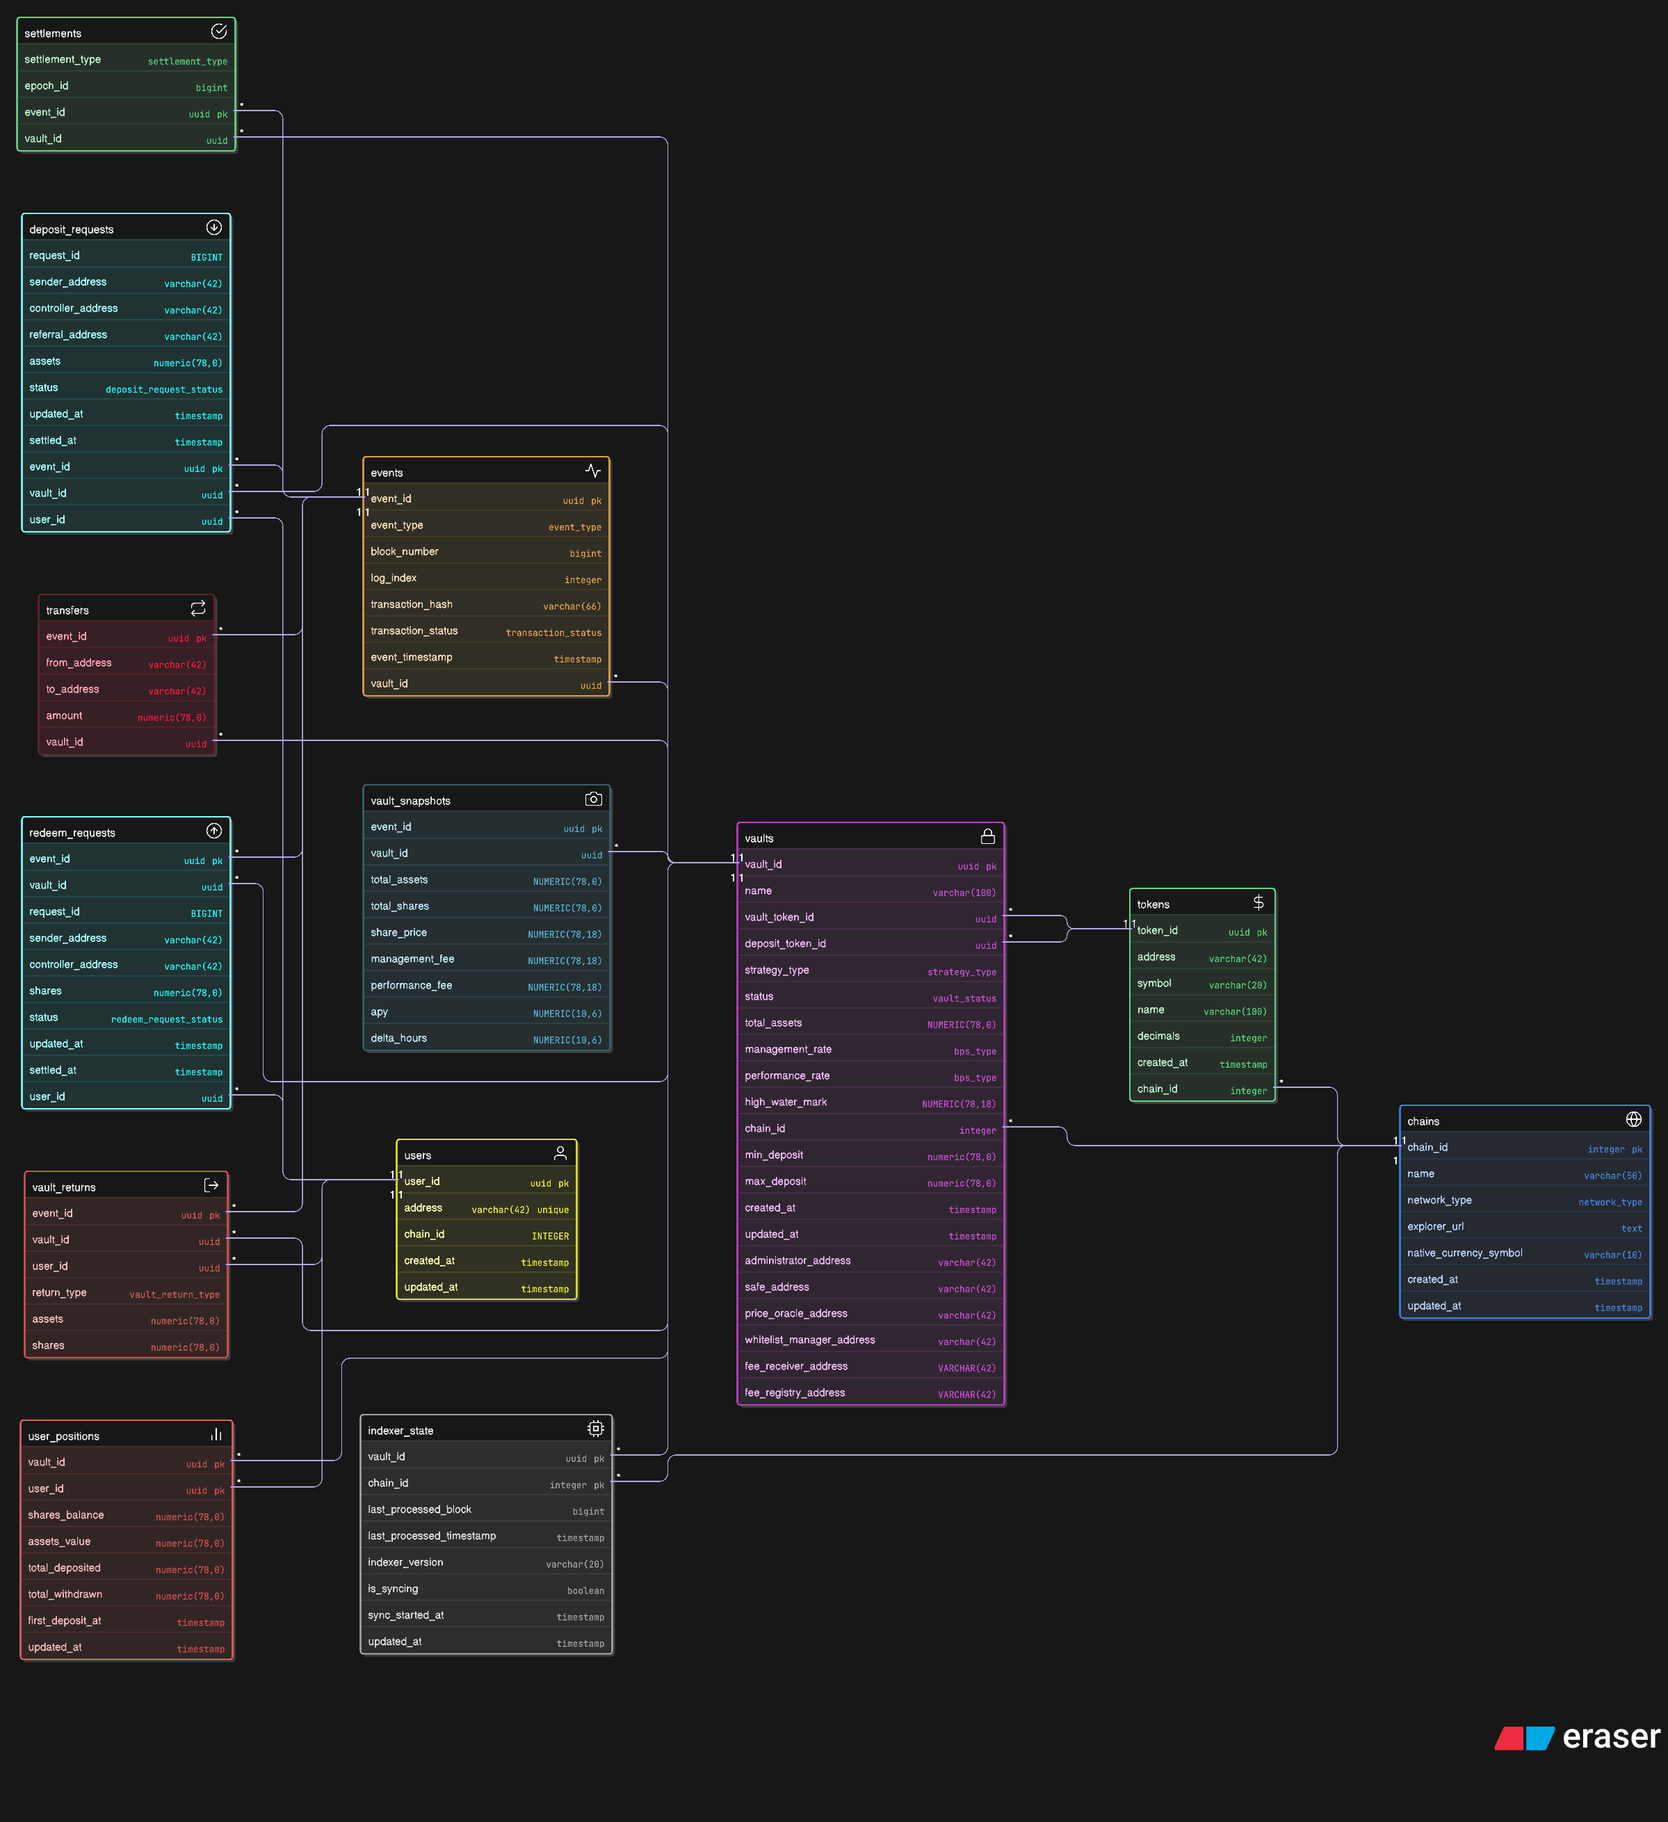
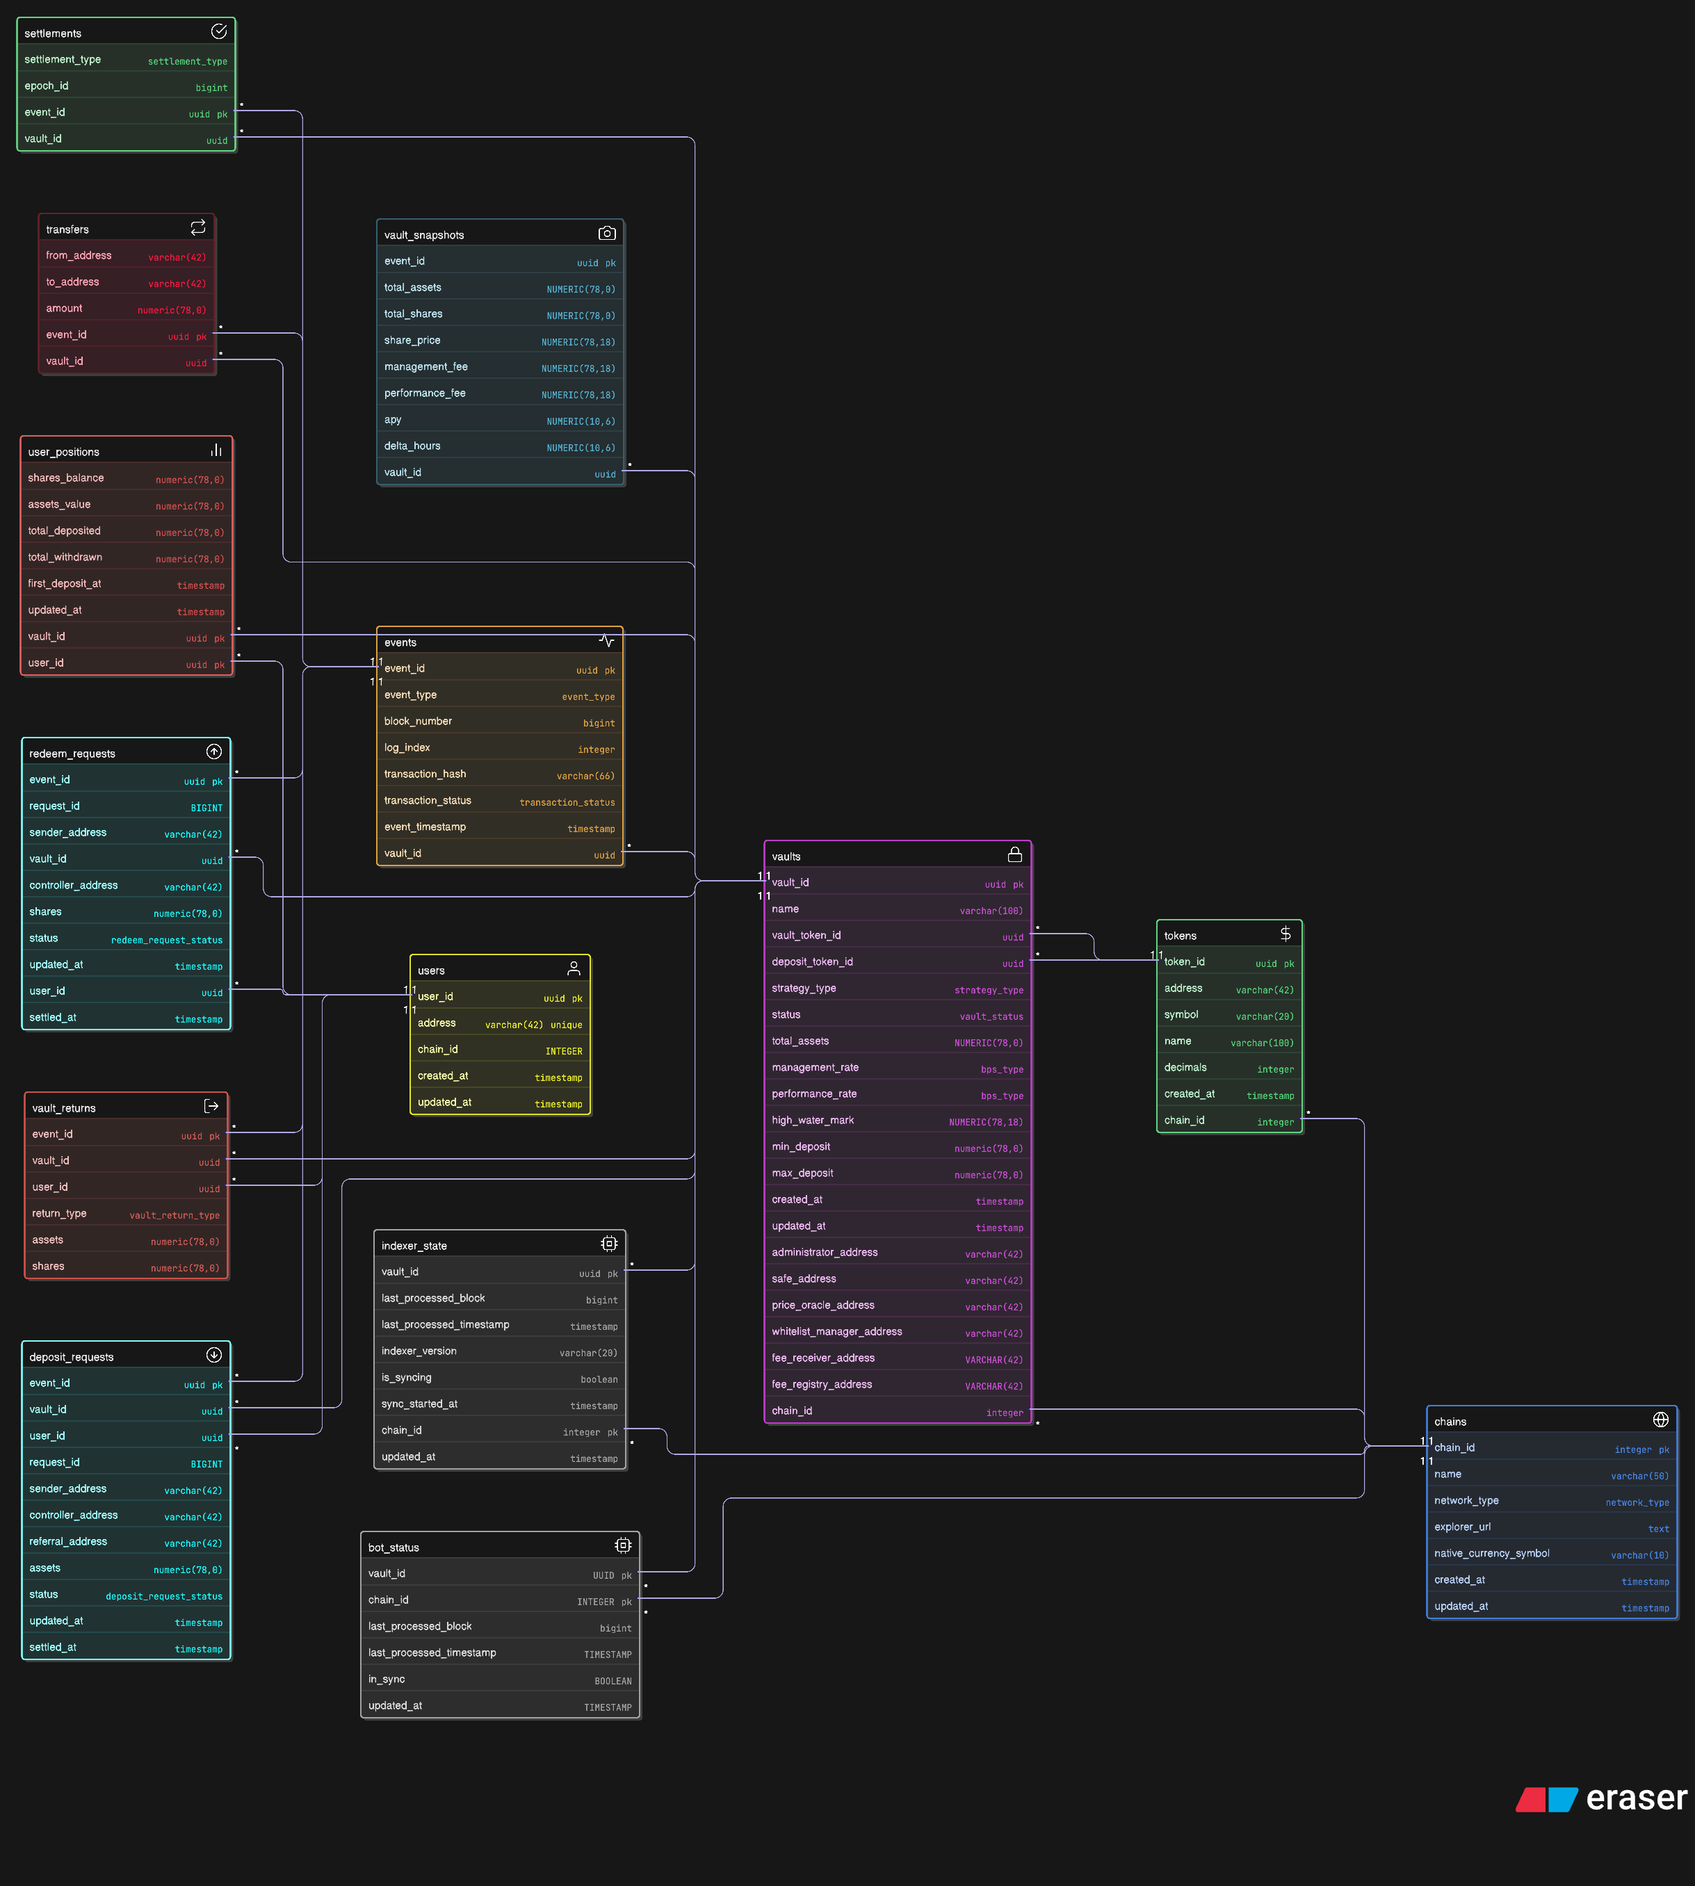
feat: add keeper status sync, bot integration, data model updates, and critical headroom fix
- Implemented /lagoon/keeper_status API endpoints with both test (unauthenticated) and authenticated routes for updating bot_status
- Integrated keeper bot to report execution progress by posting latest processed block and timestamp to API after each transaction batch
- Updated data model with bot_status table to track vault_id, chain_id, last_processed_block, timestamp, and sync status for keeper bots
- Enhanced indexer logic to check if bot_status.last_processed_block has been fully processed; marks bot as in_sync once indexer catches up
- Revised keeper_txs API endpoint to also verify bot in_sync status (in addition to indexers is_syncing), allowing the bot to skip execution until the indexer processes events
- Corrected headroom implementation to cap indexer processing at safe_latest_block, ensuring finalized blocks only and fixing critical missed-events bug that caused inconsistent state
- Added utility module for keeper bot to fetch latest block info from provider and report status updates

diff --git a/bot/safe-tx/handlers/update_keeper_status.ts b/bot/safe-tx/handlers/update_keeper_status.ts
@@ -1,0 +1,44 @@
+import dotenv from "dotenv";
+import { ethers } from "ethers";
+
+dotenv.config();
+
+export const updateKeeperStatus = async (
+  chain_id: string,
+  vault_address: string,
+  provider: ethers.providers.JsonRpcProvider
+) => {
+  const latestBlock = await provider.getBlockNumber();
+  const latestBlockTimestamp = await provider
+    .getBlock(latestBlock)
+    .then((block) => new Date(block.timestamp * 1000).toISOString());
+
+  console.log(`Latest block: ${latestBlock}`);
+  console.log(`Latest block timestamp: ${latestBlockTimestamp}`);
+
+  const testUrl = `${
+    process.env.API_URL
+  }/lagoon/keeper_status/test/${chain_id}/${vault_address}/${latestBlock}/${encodeURIComponent(
+    latestBlockTimestamp
+  )}`;
+
+  const response = await fetch(testUrl, {
+    method: "POST",
+  });
+
+  if (!response.ok) {
+    const errorText = await response.text();
+    throw new Error(
+      `Failed to update keeper status (test endpoint): ${response.status} - ${errorText}`
+    );
+  }
+
+  const result = await response.json();
+  if (result.success) {
+    console.log(`Keeper status (test) updated successfully: ${result.message}`);
+  } else {
+    throw new Error(
+      `Failed to update keeper status (test endpoint): ${response.status} - ${result.error}`
+    );
+  }
+};

diff --git a/bot/safe-tx/send_safe_tx.ts b/bot/safe-tx/send_safe_tx.ts
@@ -5,6 +5,7 @@ import { ethers } from "ethers";
 import { buildSafeTransactionData } from "./handlers/build_safe_tx";
 import { executeSafeTransactionWithRetry } from "./handlers/execute_safe_tx";
 import { simulateSafeTransaction } from "./handlers/simulate_safe_tx";
+import { updateKeeperStatus } from "./handlers/update_keeper_status";
 
 dotenv.config();
 
@@ -140,6 +141,13 @@ async function main() {
         provider,
         onChainNonce,
         "20"
+      );
+
+      // Update keeper status
+      await updateKeeperStatus(
+        network.chainId.toString(),
+        process.env.VAULT_ADDRESS!,
+        provider
       );
     } else {
       console.log("Just simulated; skipping execution.");

diff --git a/lagoon-indexer/db/query/lagoon_db_utils.py b/lagoon-indexer/db/query/lagoon_db_utils.py
@@ -52,6 +52,24 @@ class LagoonDbUtils:
             return default_block
 
     @staticmethod
+    def get_bot_last_processed_block(db: Database, vault_id: str, chain_id: int, default_block: int) -> int:
+        """
+        Retrieve the last processed block recorded by the bot for a given vault_id.
+        If no record exists in bot_status, return the default_block.
+        """
+        query = """
+        SELECT COALESCE(last_processed_block, %s) AS last_block
+        FROM bot_status
+        WHERE vault_id = %s AND chain_id = %s
+        """
+        result = db.queryResponse(query, (default_block, vault_id, chain_id))
+
+        if result and 'last_block' in result[0]:
+            return int(result[0]['last_block'])
+        else:
+            return default_block
+
+    @staticmethod
     def update_last_processed_block(db: Database, vault_id: str, chain_id: int, last_block: int, is_syncing: bool):
         """
         Update the last processed block for a given vault_id.
@@ -67,6 +85,38 @@ class LagoonDbUtils:
         """
         formatted_ts = LagoonDbDateUtils.get_datetime_formatted_now()
         db.execute(query, (last_block, formatted_ts, formatted_ts, is_syncing, vault_id, chain_id))
+
+    @staticmethod
+    def update_bot_status(db: Database, vault_id: str, chain_id: int, last_processed_block: int, last_processed_timestamp: str):
+        """
+        Update the bot status for a given vault_id.
+        """
+        query = """
+            UPDATE bot_status
+            SET
+                last_processed_block = %s,
+                last_processed_timestamp = %s,
+                in_sync = %s,
+                updated_at = %s
+            WHERE vault_id = %s AND chain_id = %s
+        """
+        now_ts = LagoonDbDateUtils.get_datetime_formatted_now()
+        db.execute(query, (last_processed_block, last_processed_timestamp, False, now_ts, vault_id, chain_id))
+    
+    @staticmethod
+    def update_bot_in_sync(db: Database, vault_id: str, chain_id: int):
+        """
+        Update the bot status to in sync when the indexer catches up.
+        """
+        query = """
+            UPDATE bot_status
+            SET
+                in_sync = %s,
+                updated_at = %s
+            WHERE vault_id = %s AND chain_id = %s
+        """
+        now_ts = LagoonDbDateUtils.get_datetime_formatted_now()
+        db.execute(query, (True, now_ts, vault_id, chain_id))
 
     @staticmethod
     def get_delta_hours_and_apy_12h_ago(db: Database, vault_id: str, current_share_price: Decimal, current_event_ts: datetime) -> Tuple[Optional[Decimal], Optional[Decimal], Optional[Decimal]]:

diff --git a/lagoon-indexer/db/query/endpoints/lagoon_keeper_status.py b/lagoon-indexer/db/query/endpoints/lagoon_keeper_status.py
@@ -1,0 +1,61 @@
+from db.db import getEnvDb
+from typing import Dict, Any
+from db.query.lagoon_db_utils import LagoonDbUtils
+
+def update_keeper_status(
+    chain_id: int,
+    vault_address: str,
+    last_processed_block: int,
+    last_processed_timestamp: str
+) -> Dict[str, Any]:
+    """
+    Verifies vault_address and chain_id exist, then updates bot_status with sync progress.
+
+    Args:
+        chain_id: The chain ID for the vault.
+        vault_address: The address of the vault.
+        last_processed_block: The latest block processed by the bot.
+        last_processed_timestamp: The timestamp of the latest processed block by the bot.
+
+    Returns:
+        A dictionary indicating success or error details.
+    """
+    try:
+        # Initialize database connection
+        db = getEnvDb('damm-public')
+
+        # 1) Check vault exists
+        vaults_query = """
+            SELECT v.vault_id FROM vaults v JOIN tokens t ON v.vault_token_id = t.token_id WHERE t.address = %s
+        """
+        vaults_df = db.frameResponse(vaults_query, (vault_address,))
+        if vaults_df.empty:
+            return {
+                "success": False,
+                "error": f"Vault address {vault_address} does not exist in vaults table"
+            }
+        
+        vault_id = vaults_df.iloc[0]['vault_id']
+
+        # 2) Check chain exists
+        chains_query = """
+            SELECT 1 FROM chains WHERE chain_id = %s
+        """
+        chains_df = db.frameResponse(chains_query, (chain_id,))
+        if chains_df.empty:
+            return {
+                "success": False,
+                "error": f"Chain ID {chain_id} does not exist in chains table"
+            }
+
+        # 3) Update bot_status table
+        LagoonDbUtils.update_bot_status(db, vault_id, chain_id, last_processed_block, last_processed_timestamp)
+
+        return {
+            "success": True,
+            "message": f"Updated bot_status for vault_address={vault_address}, chain_id={chain_id}"
+        }
+
+    except Exception as e:
+        print(f"Error in update_keeper_status: {e}")
+        return {"success": False, "error": str(e)}

diff --git a/lagoon-indexer/db/query/endpoints/lagoon_keeper_txs.py b/lagoon-indexer/db/query/endpoints/lagoon_keeper_txs.py
@@ -73,6 +73,14 @@ def get_keepers_pending_txs_metadata(chain_id: int = 480) -> Dict[str, Any]:
         LIMIT 1
     """
 
+    bot_status_query = """
+        SELECT in_sync
+        FROM bot_status
+        WHERE vault_id = %s
+        AND chain_id = %s
+        LIMIT 1
+    """
+
     vaults_txs = []
 
     vaults_df = db.frameResponse(vaults_query, (chain_id,))
@@ -86,14 +94,26 @@ def get_keepers_pending_txs_metadata(chain_id: int = 480) -> Dict[str, Any]:
                 "status": "error",
                 "message": "Indexer state not found"
             }
-        is_syncing = indexer_state_df.iloc[0].is_syncing
-        if is_syncing:
+        bot_status_df = db.frameResponse(bot_status_query, (vault_id, chain_id))
+        if bot_status_df.empty:
+            return {
+                "status": "error",
+                "message": "Bot status not found"
+            }
+        indexer_is_syncing = indexer_state_df.iloc[0].is_syncing
+        if indexer_is_syncing:
             return {
                 "status": "syncing",
                 "message": "Indexer is currently syncing blockchain data. Bot operations are paused until synchronization completes.",
                 "vault_txs": []
             }
-        
+        bot_in_sync = bot_status_df.iloc[0].in_sync
+        if not bot_in_sync:
+            return {
+                "status": "syncing",
+                "message": "Bot is not in sync with the indexer. Bot operations are paused until synchronization completes.",
+                "vault_txs": []
+            }
         
         price_oracle_address = row.price_oracle_address
         safe_address = row.safe_address

diff --git a/damm-world-api/app/endpoints/post_keeper_status.py b/damm-world-api/app/endpoints/post_keeper_status.py
@@ -1,0 +1,32 @@
+from fastapi import Depends, Query, APIRouter
+from app.auth.jwt_auth import get_current_user_jwt
+from db.query.endpoints.lagoon_keeper_status import update_keeper_status as update_keeper_status_logic
+
+router = APIRouter()
+
+@router.post("/lagoon/keeper_status/test/{chain_id}/{vault_address}/{last_processed_block}/{last_processed_timestamp}")
+def update_keeper_status_test(
+    chain_id: int,
+    vault_address: str,
+    last_processed_block: int,
+    last_processed_timestamp: str,
+):
+    """
+    Test endpoint: Update keeper status without authentication (direct path params).
+    """
+    result = update_keeper_status_logic(chain_id, vault_address, last_processed_block, last_processed_timestamp)
+    return result
+
+@router.post("/lagoon/keeper_status")
+def update_keeper_status(
+    current_user: dict = Depends(get_current_user_jwt),
+    chain_id: int = Query(..., description="Chain ID (default: 480 for Worldchain)"),
+    vault_address: str = Query(..., description="Vault Address"),
+    last_processed_block: int = Query(..., description="Last processed block"),
+    last_processed_timestamp: str = Query(..., description="Last processed timestamp"),
+):
+    """
+    Authenticated endpoint: Update keeper status with required query parameters.
+    """
+    result = update_keeper_status_logic(chain_id, vault_address, last_processed_block, last_processed_timestamp)
+    return result

diff --git a/lagoon-indexer/lagoon_indexer.py b/lagoon-indexer/lagoon_indexer.py
@@ -510,7 +510,7 @@ class LagoonIndexer:
             
             # Get indexer status
             block_gap, percentage_behind = get_indexer_status(last_processed_block, latest_block, self.chain_id)
-            print(f"Indexer is {percentage_behind}% behind the chain head")
+            print(f"Indexer is {percentage_behind}% towards completion of syncing.")
             print(f"Block gap: {block_gap}")
 
             # Get block range to process
@@ -523,6 +523,12 @@ class LagoonIndexer:
             is_syncing = not is_up_to_date(new_last_processed_block, latest_block)
             LagoonDbUtils.update_last_processed_block(self.db, self.vault_id, self.chain_id, new_last_processed_block, is_syncing)
             print(f"Updated last processed block to {new_last_processed_block} in DB.")
+
+            bot_last_processed_block = LagoonDbUtils.get_bot_last_processed_block(self.db, self.vault_id, self.chain_id, self.first_lagoon_block)
+            print(f"Bot last processed block: {bot_last_processed_block}")
+            if (bot_last_processed_block <= new_last_processed_block):
+                LagoonDbUtils.update_bot_in_sync(self.db, self.vault_id, self.chain_id)
+                print(f"Updated bot status to in sync in DB.")
 
             if self.real_time and self.sleep_time > 0:
                 print(f"Sleeping {self.sleep_time} seconds.")

diff --git a/lagoon-indexer/db/register_indexer.py b/lagoon-indexer/db/register_indexer.py
@@ -194,10 +194,28 @@ def insert_indexer_state(db, vault_id, chain_id):
         conn.commit()
     print(f"Indexer state inserted (or already exists).")
 
+def insert_bot_status(db, vault_id, chain_id):
+    now_ts = LagoonDbDateUtils.get_datetime_formatted_now()
+    query = """
+    INSERT INTO bot_status (
+    vault_id, chain_id, last_processed_block, last_processed_timestamp, 
+    in_sync, updated_at
+    ) VALUES (
+        %s, %s, %s, %s, %s, %s
+    )
+    ON CONFLICT (vault_id, chain_id) DO NOTHING;
+    """
+    with db.connection as conn:
+        with conn.cursor() as cur:
+            cur.execute(query, (vault_id, chain_id, None, now_ts, False, now_ts))
+        conn.commit()
+    print(f"Bot status inserted (or already exists).")
+
 def register_indexer(chain_id):
     db = getEnvDb('damm-public')
     insert_chain(db, chain_id)
     vault_id = insert_vault(db, chain_id)
     insert_indexer_state(db, vault_id, chain_id)
+    insert_bot_status(db, vault_id, chain_id)
     db.closeConnection()
     return vault_id

diff --git a/damm-world-api/app/main.py b/damm-world-api/app/main.py
@@ -5,6 +5,7 @@ from app.endpoints.get_vault_snapshots import router as get_vault_snapshots_rout
 from app.endpoints.get_user_position import router as get_user_position_router
 from app.endpoints.get_integrated_position import router as get_integrated_position_router
 from app.endpoints.get_keeper_txs import router as get_keeper_txs_router
+from app.endpoints.post_keeper_status import router as post_keeper_status_router
 from fastapi.middleware.cors import CORSMiddleware
 
 app = FastAPI(title="DAMM World API", version="0.1.0")
@@ -25,6 +26,7 @@ app.include_router(get_vault_snapshots_router)
 app.include_router(get_user_position_router)
 app.include_router(get_integrated_position_router)
 app.include_router(get_keeper_txs_router)
+app.include_router(post_keeper_status_router)
 
 # Root endpoint for checking if the API is running
 @app.get("/")

diff --git a/lagoon-indexer/utils/indexer_status.py b/lagoon-indexer/utils/indexer_status.py
@@ -1,6 +1,8 @@
 from core.lagoon_deployments import get_lagoon_deployments
 
-headroom = 4
+import os
+
+headroom = int(os.getenv("INDEXER_HEADROOM", "4"))
 
 def is_up_to_date(last_processed_block: int, current_block: int):
     return last_processed_block + headroom >= current_block

diff --git a/lagoon-indexer/db/run_schema.py b/lagoon-indexer/db/run_schema.py
@@ -30,6 +30,7 @@ def truncate_event_tables():
         "vaults",
         "tokens",
         "indexer_state",
+        "bot_status",
         "users",
         "chains"
     ]
